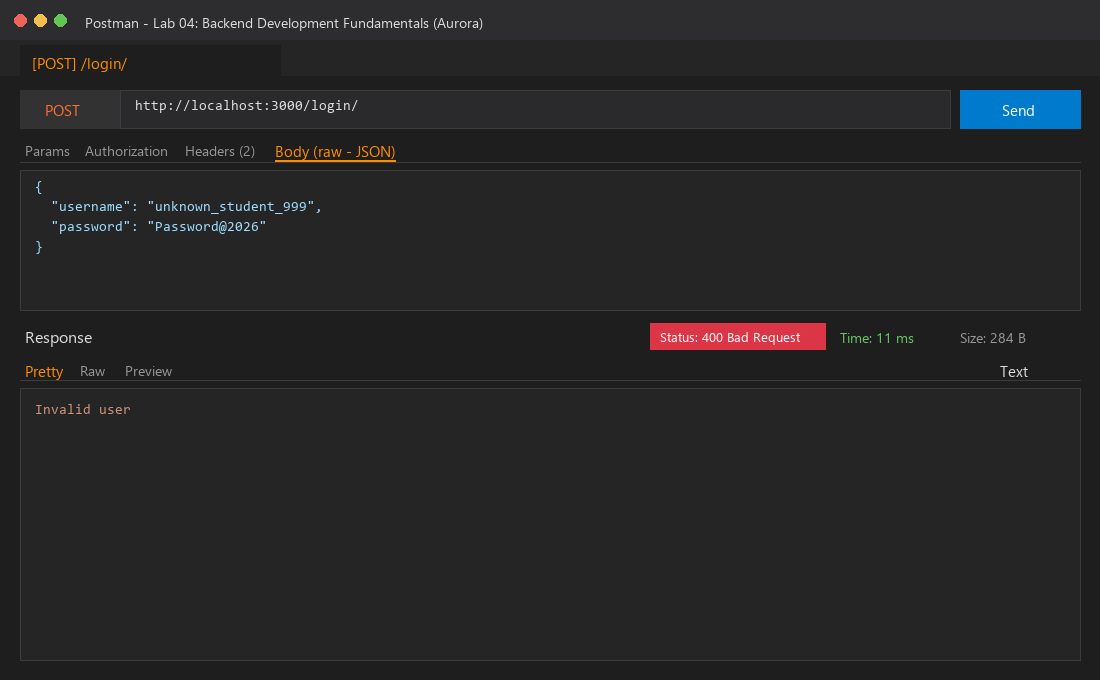
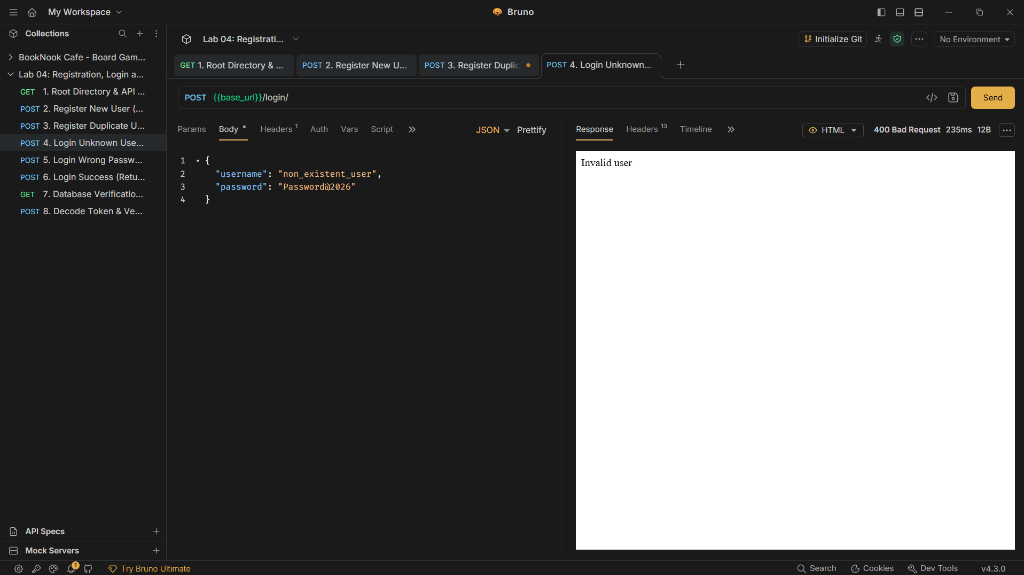
docs(lab-04): update screenshots with live Bruno testing from Render deployment

diff --git a/lab-04/README.md b/lab-04/README.md
@@ -16,7 +16,7 @@
 ---
 
 ### Live Link
-- **Deployment URL**: [https://sasidhar-lab-04-jwt.onrender.com](https://sasidhar-lab-04-jwt.onrender.com)
+- **Deployment URL**: [https://backend-aide-sasidharreddy-eg99.onrender.com](https://backend-aide-sasidharreddy-eg99.onrender.com)
 > **Note**: For local evaluation, the server runs at `http://localhost:3000`. Detailed steps to deploy to Render via the pre-configured root `render.yaml` blueprint are included below.
 
 ---
@@ -137,34 +137,38 @@ npm test
 
 ## Screenshots of Working Output
 
-### 1. User Registration Success (`POST /register/`)
+### 1. API Root Directory Overview (`GET /`)
+Live verification of API documentation, author metadata, and available endpoints on Render deployment.
+![Bruno Root Overview](screenshots/bruno-root-overview.png)
+
+### 2. User Registration Success (`POST /register/`)
 Submitting valid new user details (`username`, `name`, `password`, `gender`, `location`). Password is encrypted using `bcrypt.hash(password, 10)` and stored in the database. Returns `200 OK` with `User created successfully`.
-![Postman Register Success](screenshots/postman-register-success.png)
+![Bruno Register Success](screenshots/bruno-register-success.png)
 
-### 2. User Registration Duplicate Rejection (`POST /register/`)
+### 3. User Registration Duplicate Rejection (`POST /register/`)
 Submitting an existing username triggers a parameterised duplicate lookup. Registration is rejected with `400 Bad Request` and `User already exists`.
-![Postman Register Duplicate 400](screenshots/postman-register-duplicate-400.png)
+![Bruno Register Duplicate 400](screenshots/bruno-register-duplicate-400.png)
 
-### 3. Login Unknown User (`POST /login/`)
+### 4. Login Unknown User (`POST /login/`)
 Submitting credentials for a username that does not exist in the database returns `400 Bad Request` with `Invalid user`.
-![Postman Login Unknown User 400](screenshots/postman-login-unknown-user-400.png)
+![Bruno Login Unknown User 400](screenshots/bruno-login-unknown-user-400.png)
 
-### 4. Login Wrong Password (`POST /login/`)
+### 5. Login Wrong Password (`POST /login/`)
 Submitting an incorrect password causes `bcrypt.compare` to return `false`. Authentication fails with `400 Bad Request` and `Invalid password`.
 ![Postman Login Wrong Password 400](screenshots/postman-login-wrong-password-400.png)
 
-### 5. Login Success & JWT Generation (`POST /login/`)
+### 6. Login Success & JWT Generation (`POST /login/`)
 Submitting correct credentials verifies the bcrypt hash and issues a cryptographically signed token returning `200 OK` with `{ jwt_token }`.
 ![Postman Login Success JWT](screenshots/postman-login-success-jwt.png)
 
-### 6. JWT Token Structure & jwt.io Decoding
+### 7. JWT Token Structure & jwt.io Decoding
 Inspection of the issued token on `jwt.io` demonstrating the three Base64URL-encoded parts:
 - **Header (Red)**: Algorithm (`HS256`) and Token Type (`JWT`)
 - **Payload (Purple)**: Non-sensitive claims containing **only the username** (`sasidhar_aide`) and standard timestamps (`iat`, `exp`), strictly excluding passwords
 - **Signature (Cyan)**: Cryptographic signature verified using secret key constant `AURORA_MERN_JWT_SECRET_KEY_2026`
 ![JWT.io Token Decode](screenshots/jwt-io-token-decode.png)
 
-### 7. Database Security & Hashes Audit
+### 8. Database Security & Hashes Audit
 Direct query of the SQLite database (`userData.db`) showing that all stored passwords are one-way bcrypt hashes (`$2b$10$...`). Passwords are never stored in plain text.
 ![Database Hashes Verification](screenshots/database-hashes-verification.png)
 

diff --git a/README.md b/README.md
@@ -20,7 +20,7 @@ This repository contains all laboratory exercises and coursework for the Backend
 | **Lab 01** | Node.js and Express Server Fundamentals | [lab-01](./lab-01) | Completed | [Live Deployment (Render)](https://sasidhar-lab-01-express.onrender.com) |
 | **Lab 02** | SQLite Database and CRUD Routes | [lab-02](./lab-02) | Completed | [Live Deployment (Render)](https://sasidhar-lab-02-sqlite.onrender.com) |
 | **Lab 03** | REST API, Query Parameters, Validation & Debugging | [lab-03](./lab-03) | Completed | [Live Deployment (Render)](https://backend-aide-sasidharreddy.onrender.com) |
-| **Lab 04** | Registration, Login and JWT Authentication | [lab-04](./lab-04) | Completed | [Live Deployment (Render)](https://sasidhar-lab-04-jwt.onrender.com) |
+| **Lab 04** | Registration, Login and JWT Authentication | [lab-04](./lab-04) | Completed | [Live Deployment (Render)](https://backend-aide-sasidharreddy-eg99.onrender.com) |
 | **Lab 05** | *Upcoming Lab* | `lab-05/` | Pending | — |
 | **Lab 06** | *Upcoming Lab* | `lab-06/` | Pending | — |
 | **Lab 07** | *Upcoming Lab* | `lab-07/` | Pending | — |
@@ -51,7 +51,7 @@ This repository is pre-configured with a **Render Blueprint** (`render.yaml`) fo
 | **Build Command** | `npm install` | `npm install` | `npm install` | `npm install` |
 | **Start Command** | `npm start` | `npm start` | `npm start` | `npm start` |
 | **Plan** | Free | Free | Free | Free |
-| **Live URL** | `https://sasidhar-lab-01-express.onrender.com` | `https://sasidhar-lab-02-sqlite.onrender.com` | `https://backend-aide-sasidharreddy.onrender.com` | `https://sasidhar-lab-04-jwt.onrender.com` |
+| **Live URL** | `https://sasidhar-lab-01-express.onrender.com` | `https://sasidhar-lab-02-sqlite.onrender.com` | `https://backend-aide-sasidharreddy.onrender.com` | `https://backend-aide-sasidharreddy-eg99.onrender.com` |
 | **Primary Test Route**| `GET /` & `GET /about` | `GET /` & `GET /books/` | `GET /` & `GET /books` | `POST /register/` & `POST /login/` |
 
 ---
